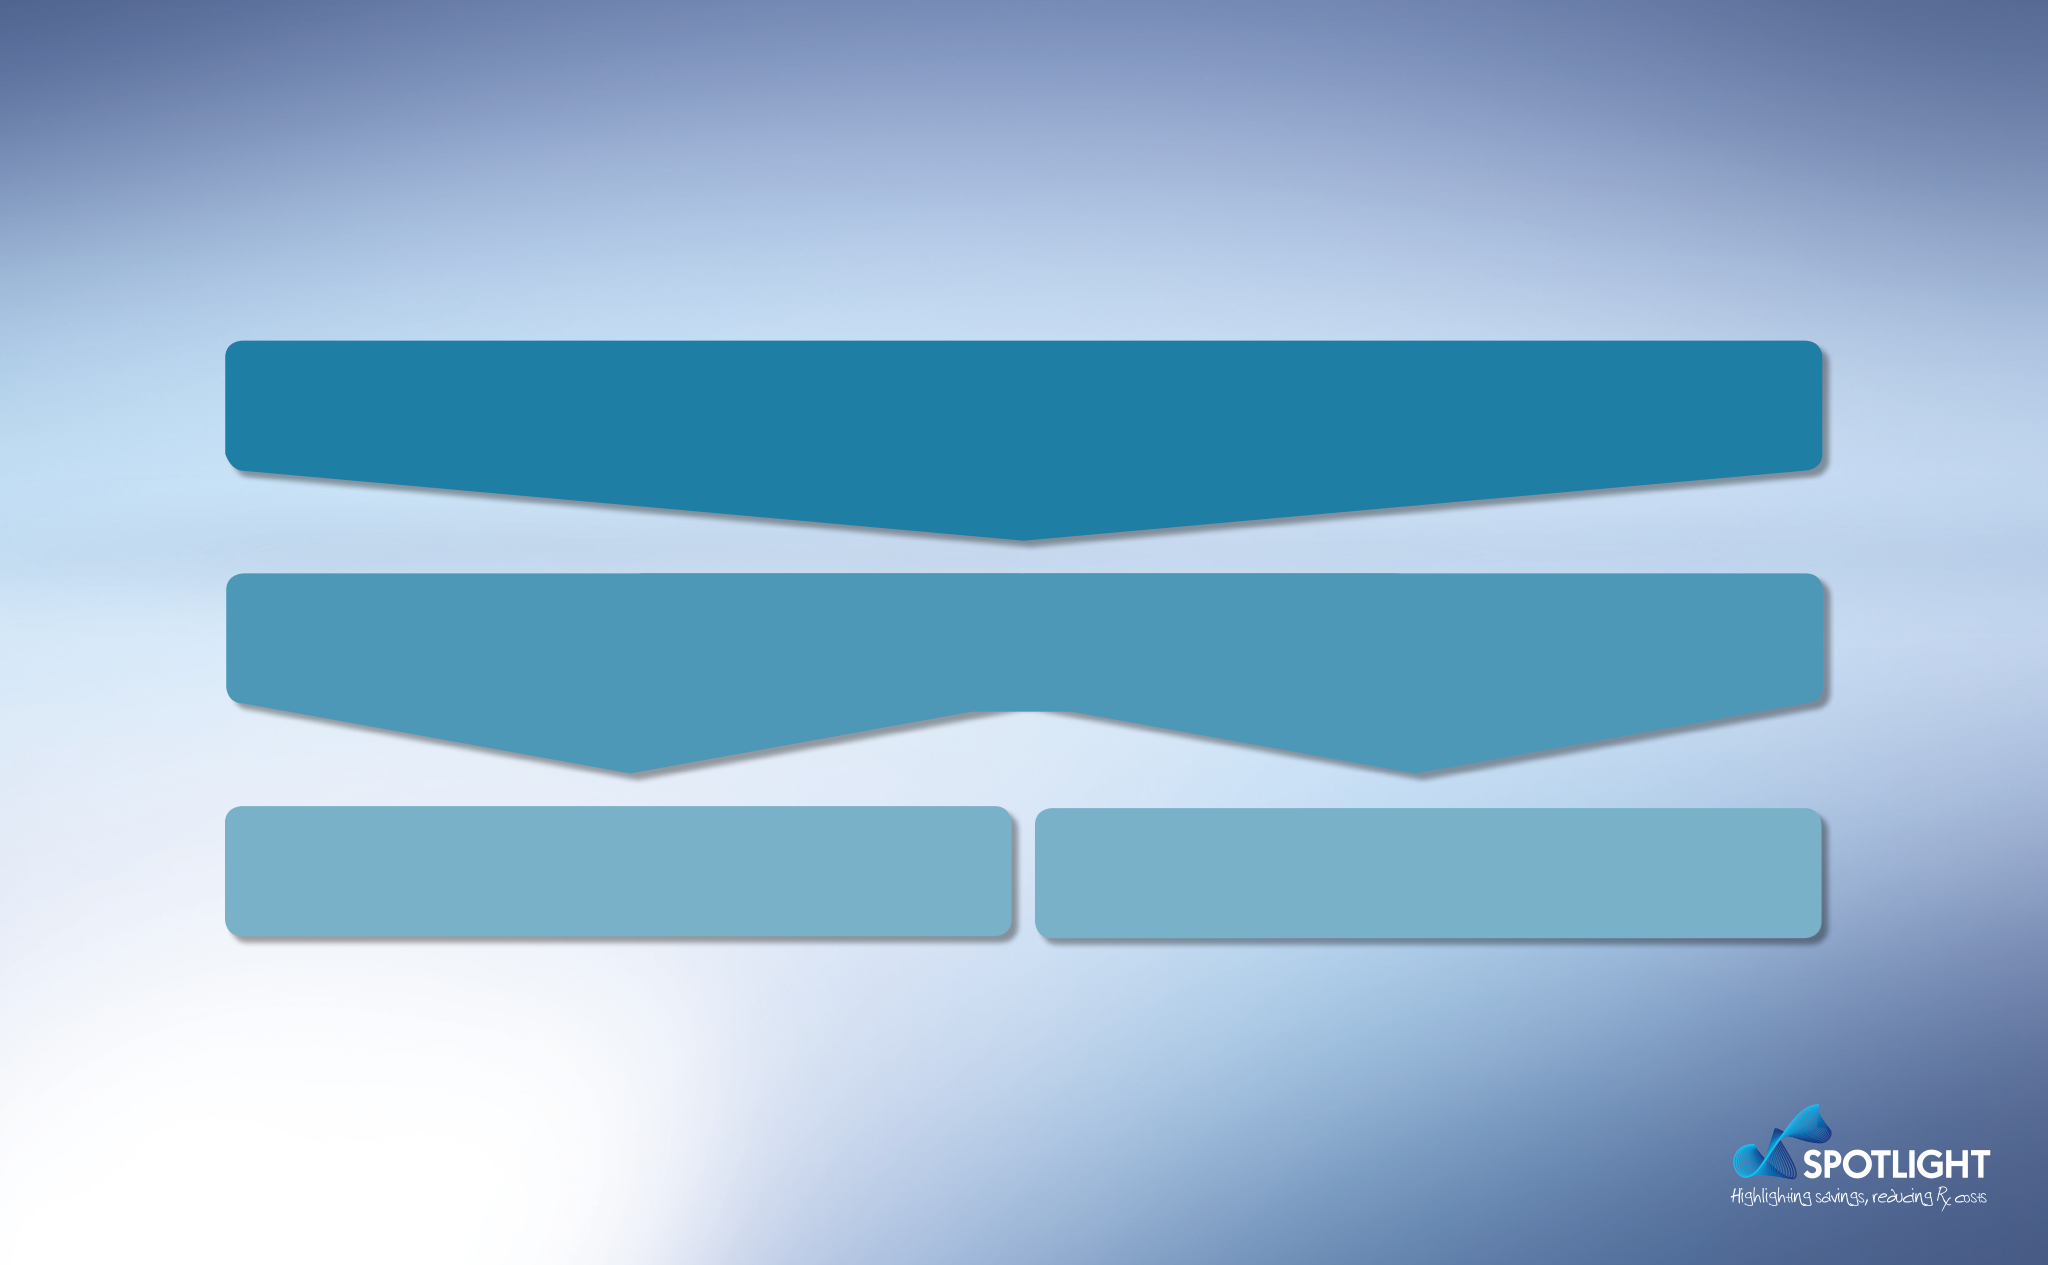
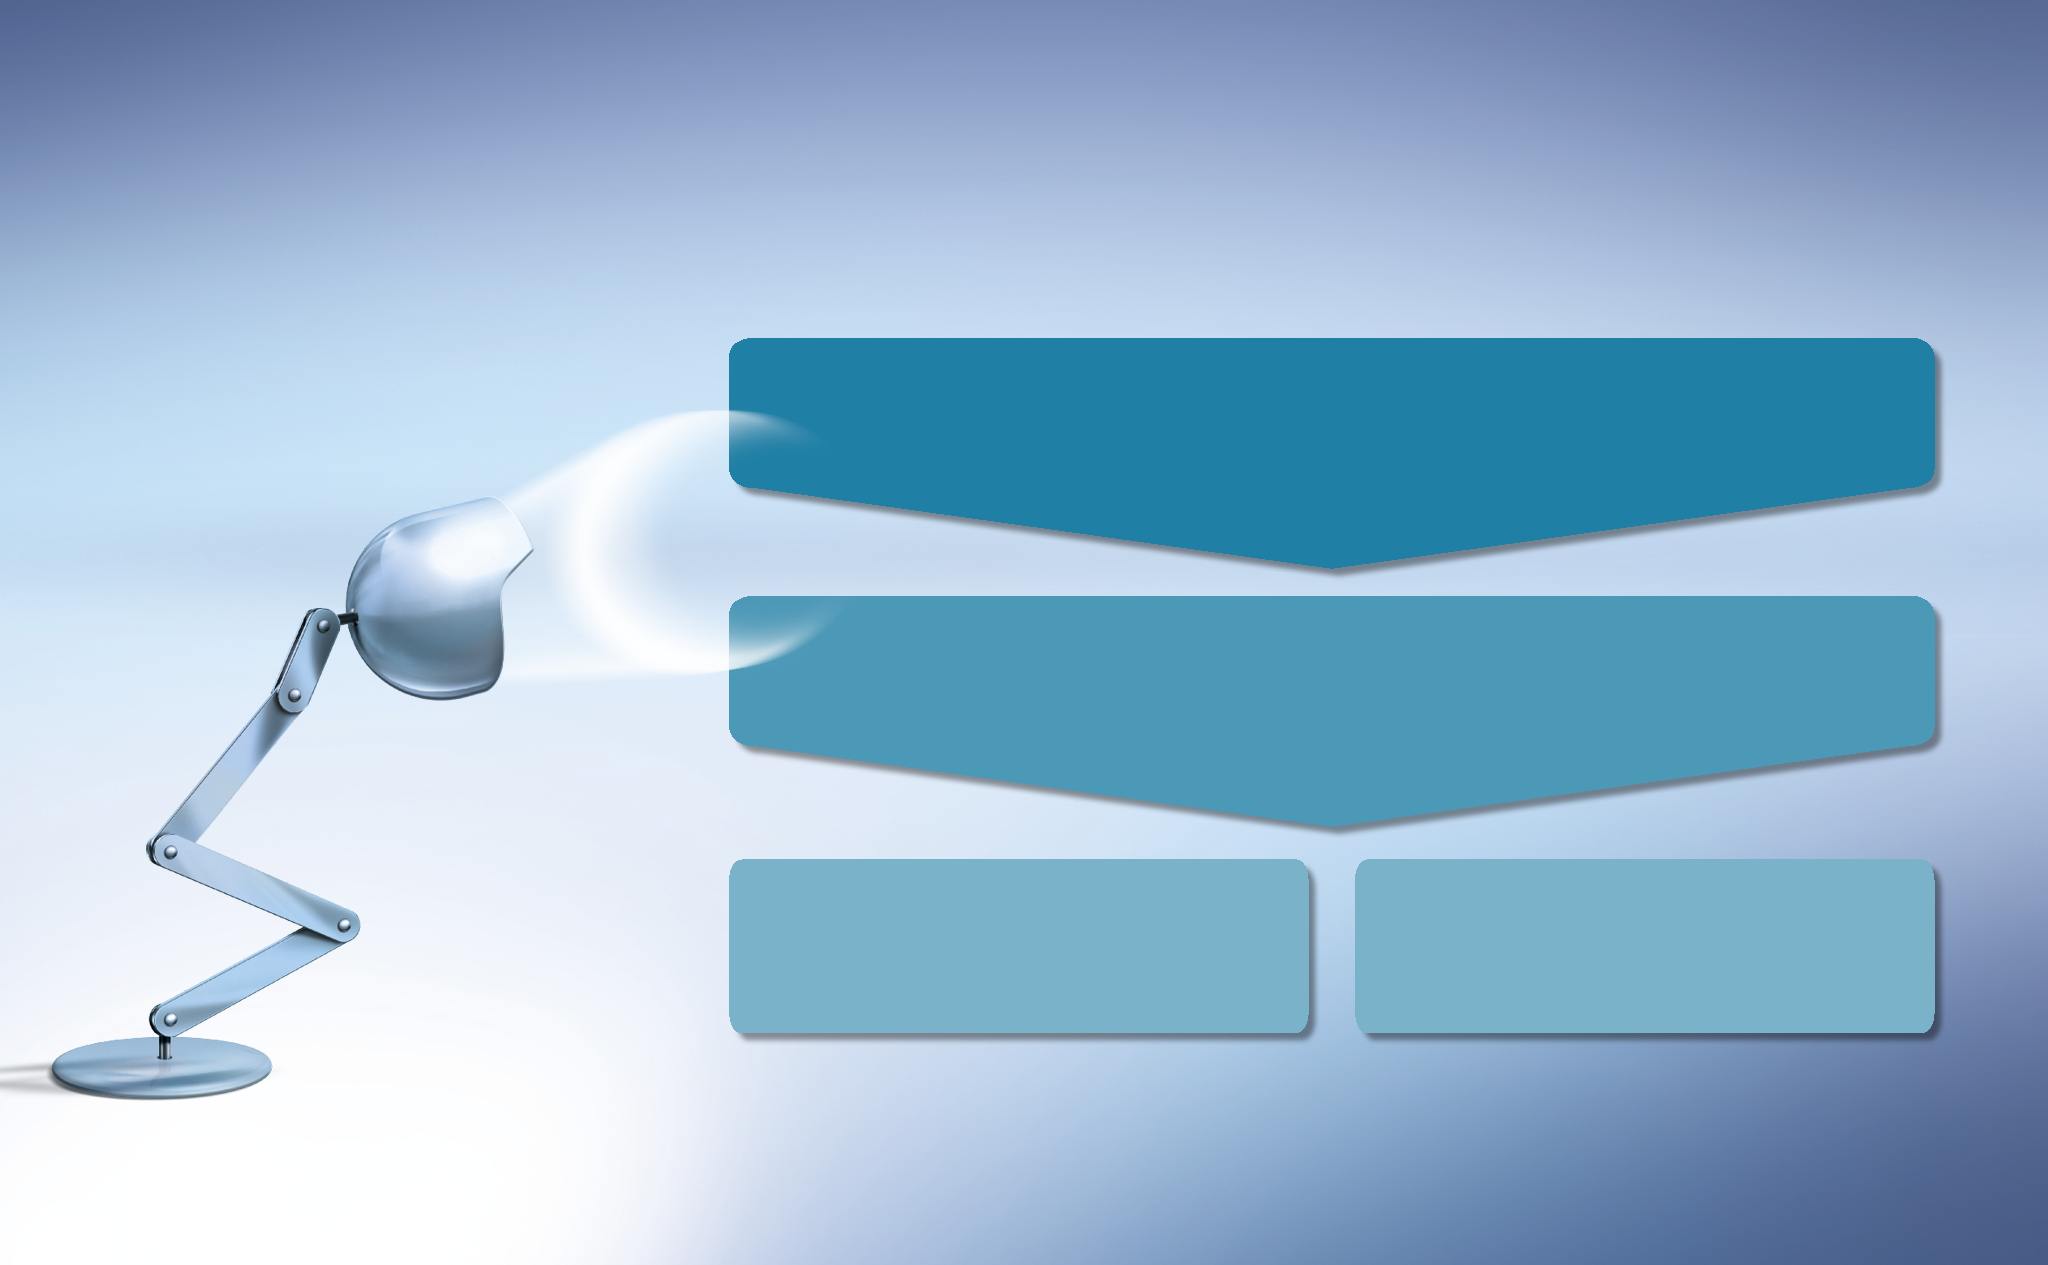
Changes to values and summary slide background changes

Changed region(s): [[0.0, 0.2466, 0.9688, 0.8941], [0.8438, 0.8632, 0.9688, 0.9557]]

diff --git a/presentations/15_presentation_summary/00_slide_summary/css/style.css b/presentations/15_presentation_summary/00_slide_summary/css/style.css
@@ -8,14 +8,15 @@ svg {
 	left:111px;
 	position: absolute;
 	font-size:20px;
-	top:148px;
+	top:118px;
 	width: 800px;
 	text-align: center;
 	opacity: 0;
 }
 #slide_container h2 {
 	top:241px;
-	left:171px;
+	left:480px;
+	width: 400px;
 	color:#FFF;
 	line-height: 25px;
 	opacity: 0;
@@ -25,19 +26,22 @@ svg {
 	opacity: 0;
 	color:#FFF;
 	font-weight: bold;
+	text-align: center;
 
 }
 #slide_container h2:nth-child(3) {
-	left:148px;
-    top:359px;
+
+    top:375px;
 }
 #slide_container h2:nth-child(4) {
-    top:482px;
-    left:174px;
+    top:510px;
+    left:412px;
+    width: 200px;
 }
 #slide_container h2:nth-child(5) {
-    top:482px;
-    left:578px;
+    top:510px;
+    left:722px;
+    width: 200px;
 }
 
 #slide_container h3 {
@@ -62,7 +66,7 @@ h2 sup {
 #notes {
 	color:#FFF;
 	top:623px;
-	left:72px;
+	left:365px;
 
 }
 #main {

diff --git a/global/js/navigation.js b/global/js/navigation.js
@@ -32,7 +32,7 @@ navigation[2] = {
     presentation: '03_presentation_the_spotlight_brands',
     presentationName: 'The Spotlight brands',
     links: [
-        ['', '00_slide_the_spotlight_brands'],
+        ['Page 1. ', '00_slide_the_spotlight_brands'],
     ],
     smpc : null,
     api : null

diff --git a/presentations/05_presentation_evacal/02_slide_potential_cost_savings/index.php b/presentations/05_presentation_evacal/02_slide_potential_cost_savings/index.php
@@ -21,7 +21,7 @@ potential annual average saving of over £30,178
 <h2>If including products with a lower calcium
                                 carbonate dosage (1250 mg), at a PCO level the
                                 <span>potential average annual saving is over
-                                £43,957<sup>1</sup></span></h2>
+                                £47,027<sup>1</sup></span></h2>
 
    <!-- <img class="fullscreen" id="main" src="img/cost_savings.png"/> -->
 
@@ -47,7 +47,7 @@ potential annual average saving of over £30,178
          <tr>
 
                 <td>Evacal-D3</td>
-                <td>8,054,492</td>
+                <td>7,028,265</td>
                 <td>£34,367,452</td>
                 <td>£7,152,153</td>
                 <td>£30,178</td>
@@ -65,10 +65,10 @@ potential annual average saving of over £30,178
            <tr class="last">
 
                 <td></td>
-                <td>12,379,272</td>
+                <td>10,679,407</td>
                 <td>£51,938,106</td>
                 <td>£11,145,427</td>
-                <td>£43,957</td>
+                <td>£47,027</td>
                 <td>£1,007.61</td>
                 
           </tr>

diff --git a/presentations/05_presentation_evacal/01_slide_introduction/index.php b/presentations/05_presentation_evacal/01_slide_introduction/index.php
@@ -21,7 +21,7 @@ potential annual average saving of over
 <h2>If including products with a lower calcium carbonate
                                 dosage (1250 mg), at a PCO 
                                 <span>level the potential average
-                                annual saving is over £43,957<sup>1</sup><span></h2>
+                                annual saving is over £47,027<sup>1</sup><span></h2>
 
     
     <div id="notes">
